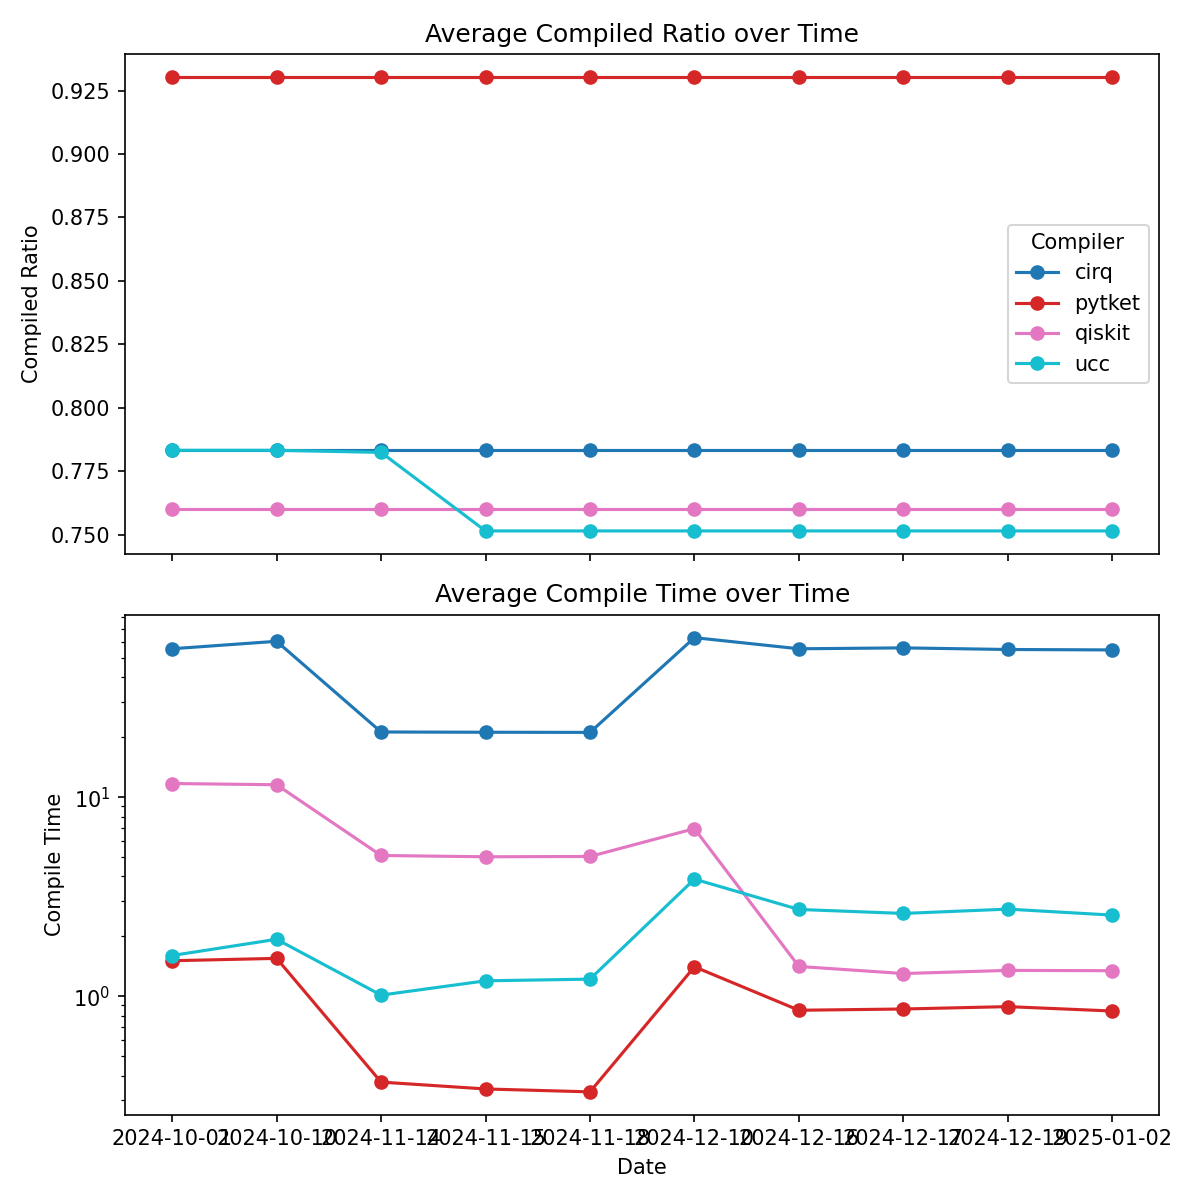
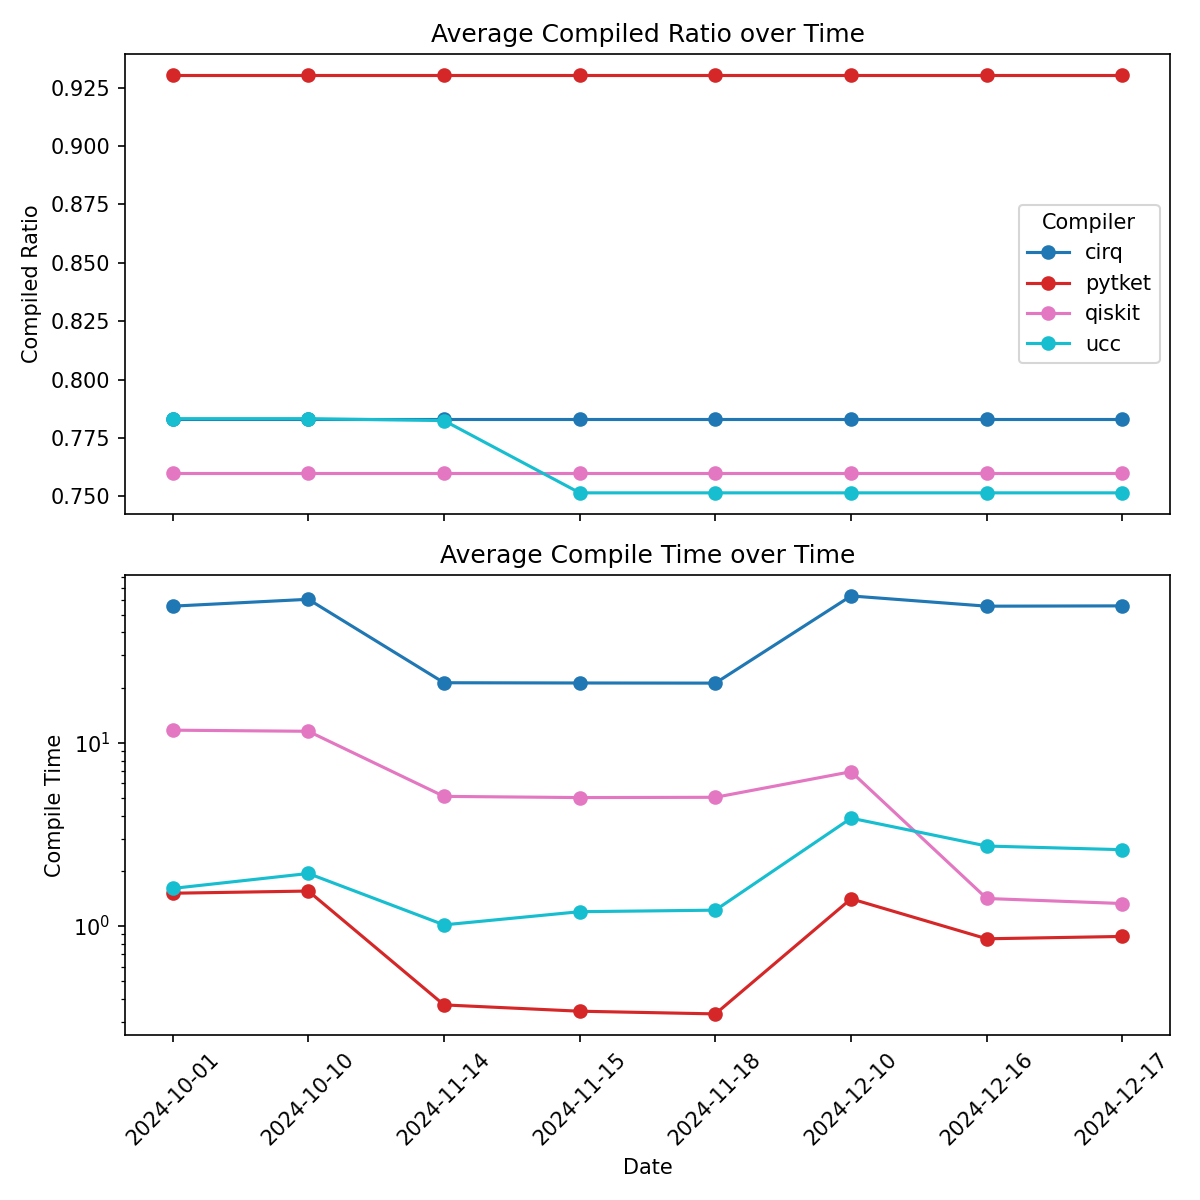
53 display most recent benchmarks (#151)
* Include plots in readme with description

* Small formatting improvements for plots

* Updated plots

* Update benchmark results

---------

diff --git a/benchmarks/scripts/plot_latest_benchmarks.py b/benchmarks/scripts/plot_latest_benchmarks.py
@@ -90,7 +90,7 @@ ax[0].set_yscale("log")
 
 ax[1].set_title(f"Gate Counts on Circuits (Date: {latest_date})")
 ax[1].set_xlabel("Circuit Name")
-ax[1].set_ylabel("Compiled Count")
+ax[1].set_ylabel("Compiled Gate Count")
 ax[1].set_xticks(x_positions)
 ax[1].set_xticklabels(circuit_names, rotation=75)
 ax[1].set_yscale("log")

diff --git a/benchmarks/scripts/plot_avg_benchmarks_over_time.py b/benchmarks/scripts/plot_avg_benchmarks_over_time.py
@@ -77,6 +77,8 @@ ax[1].set_ylabel("Compile Time")
 ax[1].set_xlabel("Date")
 ax[1].set_yscale("log")
 
+plt.xticks(rotation=45)
+
 # Adjust layout and save the figure
 plt.tight_layout()
 filename = os.path.join(directory_of_this_file, "../avg_compiler_benchmarks_over_time.png")

diff --git a/README.md b/README.md
@@ -56,6 +56,12 @@ def test_cirq_compile():
         CNOT(qubits[0], qubits[1]))
     compile(circuit)
 ```
+## How does UCC stack up?
+We run benchmarks regularly to compare against the most recent versions of the most popular quantum compiler frameworks for a range of circuits. Here's the latest:
+![alt text](benchmarks/latest_compiler_benchmarks_by_circuit.png)
+And here you can see progress over time (changes usually indicate a newer version came out):
+![alt text](benchmarks/avg_compiler_benchmarks_over_time.png)
+Note that the compile times before 2024-12-10 may have been run on different classical compute instances, so their exact runtime is not as important to compare as their relative performance with respect to other compilers. After 2024-12-10, all data present in this plot should be run on the same compute instance using our [ucc-benchmarks](https://github.com/unitaryfund/ucc/blob/main/.github/workflows/ucc-benchmarks.yml) GitHub Actions workflow. 
 
 ## License
 UCC is distributed under [GNU Affero General Public License version 3.0](https://www.gnu.org/licenses/agpl-3.0.en.html)(AGPLv3). 
